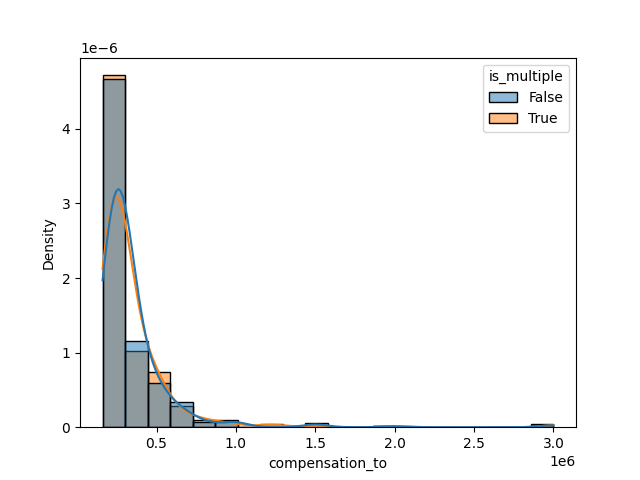
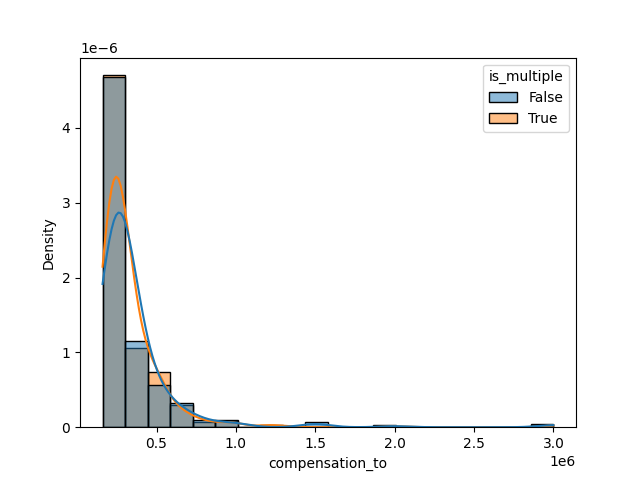
minor clean-up

diff --git a/check_two_groups.py b/check_two_groups.py
@@ -5,26 +5,33 @@ import numpy as np
 from scipy.stats import ks_2samp, shapiro, mannwhitneyu, kendalltau
 from filter import filter_dataset
 from correlation_categorical_numerical import correlation_categorical_numerical
+from correlation_categorical_categorical import correlation_categorical_categorical
 
 
 def main(name):
     df = pd.read_csv(name, sep=',', skipinitialspace=True)
-    df = filter_dataset(df, higher_required=True, required_exp=120, salary_lower_limit=150000, only_initial_response=True, only_final_invitation=False)
+    df = filter_dataset(df, higher_required=True, required_exp=120, salary_lower_limit=0, only_initial_response=True)
     resume_ids = df["resume_id"].value_counts()
     resume_ids = resume_ids[resume_ids > 1]
     resume_ids = list(pd.Series(resume_ids.keys()))
     df["is_multiple"] = df.apply(lambda x: x["resume_id"] in resume_ids, axis=1)
     for column in ["expected_salary", "compensation_from", "compensation_to", "year_of_birth", "work_experience_months"]:
-        print(column, correlation_categorical_numerical(df["is_multiple"], df[column]))
-        print(mannwhitneyu(df[df["is_multiple"] == 0][column], df[df["is_multiple"] == 1][column]))
+        print(f'Корреляция {column} с тем, прошел человек одно собеседование или несколько: ',
+              correlation_categorical_numerical(df["is_multiple"], df[column]))
+        print("p-value для этого вывода:", mannwhitneyu(df[df["is_multiple"] == 0][column],
+                                                        df[df["is_multiple"] == 1][column])[1])
         fig, ax = plt.subplots()
-        fig = sns.histplot(x=column, data=df, hue="is_multiple", bins=20, stat='density', common_norm=False, kde=True)
+        fig = sns.histplot(x=column, data=filter_dataset(df, salary_lower_limit=150000), hue="is_multiple", bins=20, stat='density', common_norm=False, kde=True)
         fig = ax.get_figure()
         fig.savefig("charts/" + column + "_check_multiple" + '.png')
     print(df.shape)
+    df = filter_dataset(df, salary_lower_limit=150000)
     print(df[df["is_multiple"] == 0]["profession"].value_counts(normalize=True))
     print(df[df["is_multiple"] == 1]["profession"].value_counts(normalize=True))
-    print(correlation_categorical_numerical(df[df["is_multiple"] == 1]["final_state"], df[df["is_multiple"] == 1]["expected_salary"]))
+    print(correlation_categorical_numerical(df[df["is_multiple"] == 1]["final_state"],
+                                            df[df["is_multiple"] == 1]["expected_salary"]))
+    print(correlation_categorical_numerical(df["final_state"],
+                                            df["expected_salary"]))
 
 
 main("hh_ru_dataset.csv")

diff --git a/filter.py b/filter.py
@@ -2,8 +2,8 @@ def filter_dataset(df,
                    higher_required=False,
                    salary_upper_limit=10 ** 20,
                    salary_lower_limit=0,
-                   only_initial_response=True,
-                   only_final_invitation=True,
+                   only_initial_response=False,
+                   only_final_invitation=False,
                    required_exp=0):
     res = df.copy()
     res = res.dropna(how="any")
